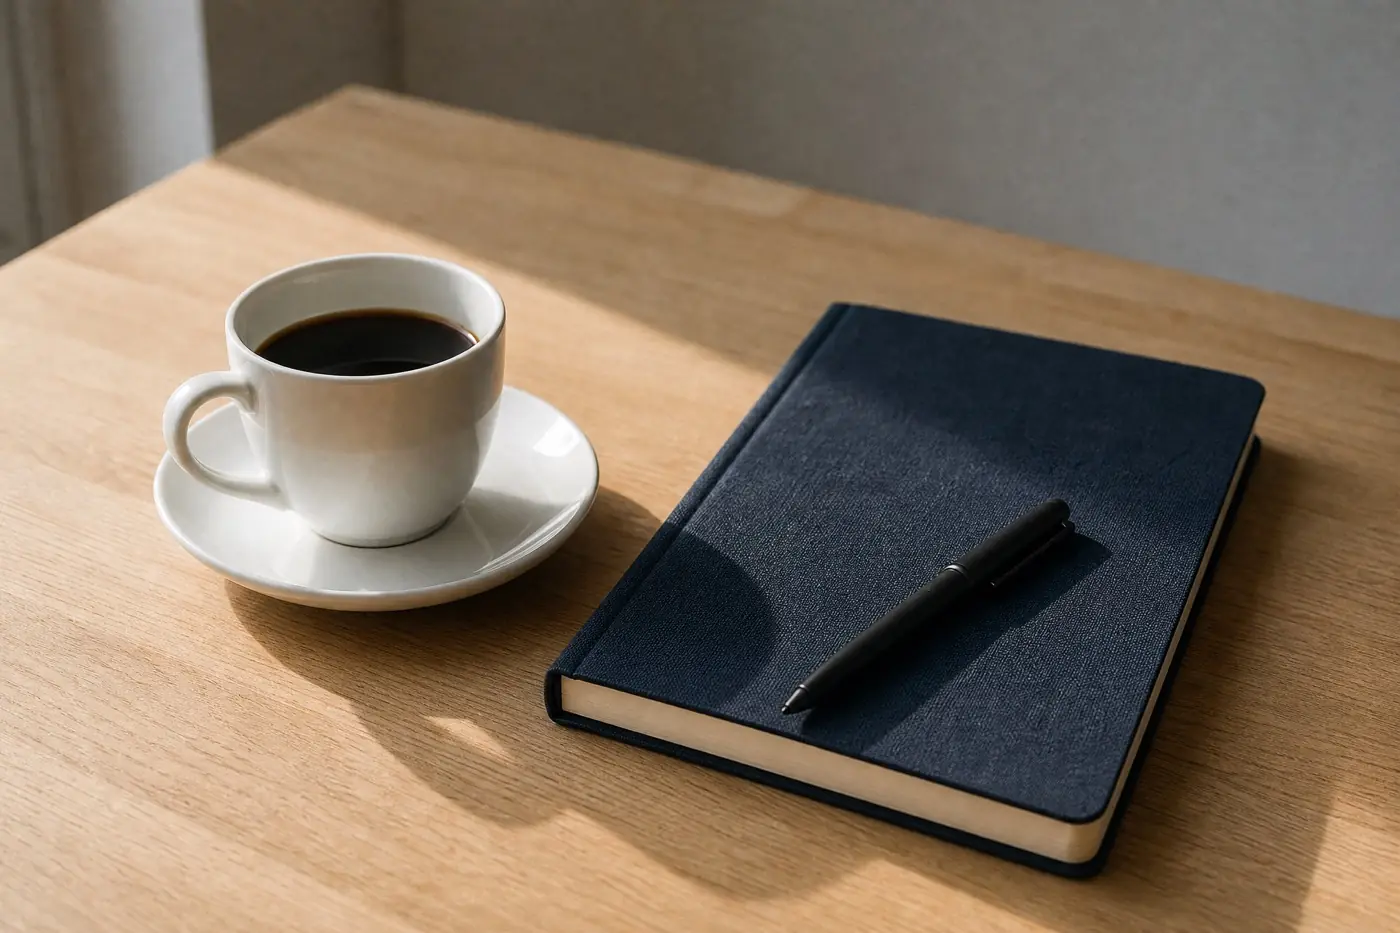
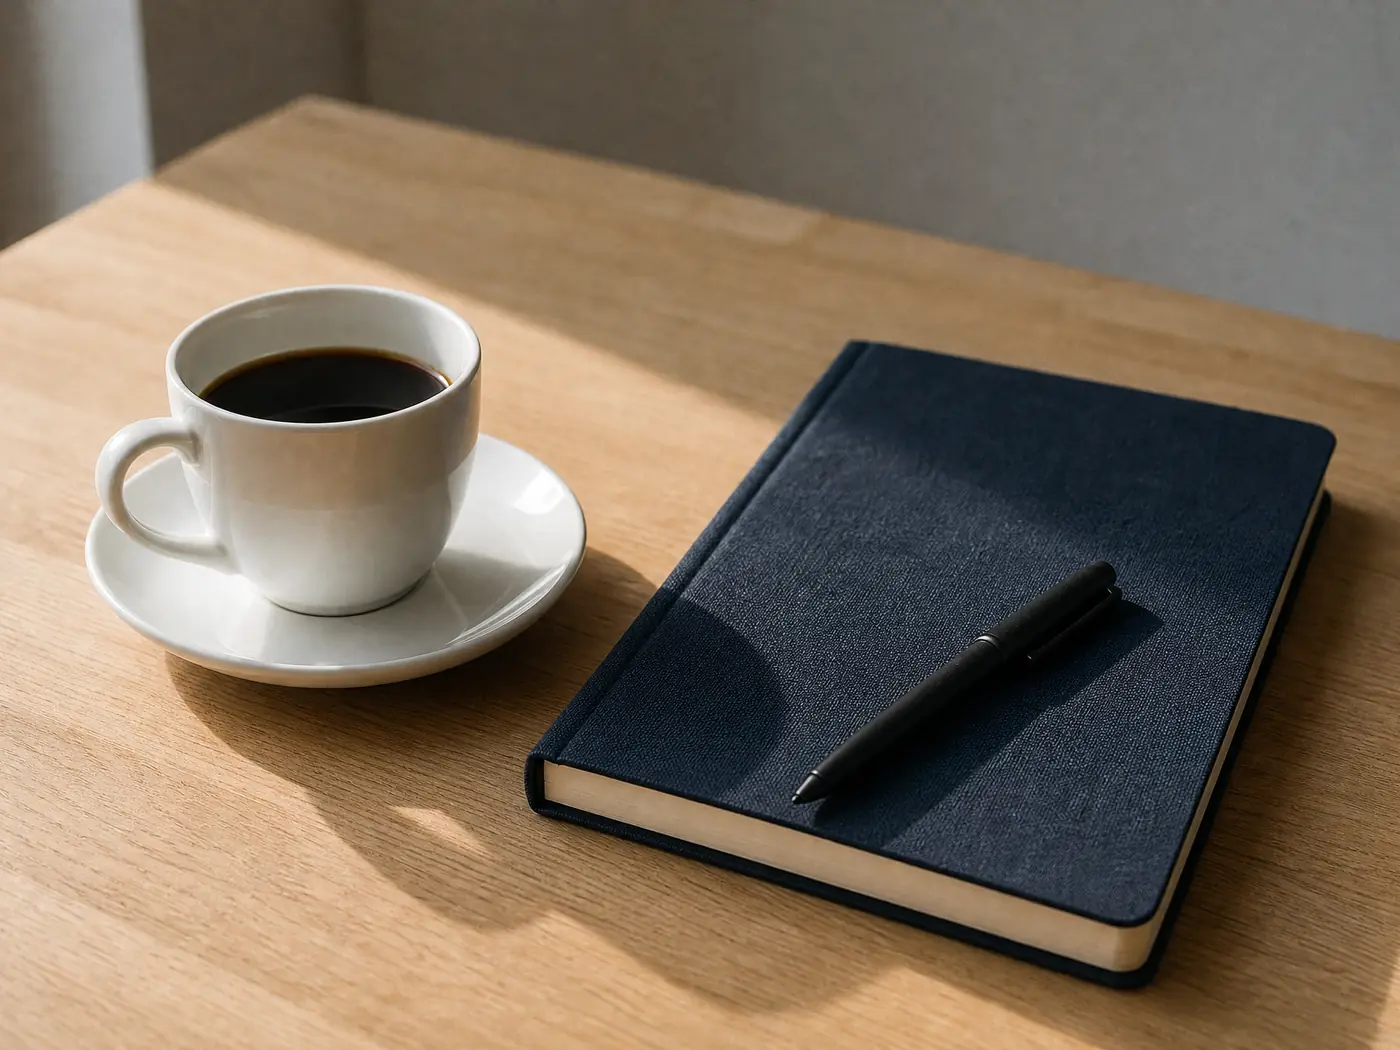
Advokatdemon: animerad meny, bildspel i toppen och avtäckta bilder

diff --git a/demo/advokat/index.html b/demo/advokat/index.html
@@ -1,5 +1,5 @@
 <!doctype html>
-<html lang="sv">
+<html lang="sv" class="js">
 <head>
 <meta charset="utf-8">
 <meta name="viewport" content="width=device-width,initial-scale=1">
@@ -20,7 +20,7 @@
 :root{
   --bas:#FFFFFF; --yta:#F2F3F5; --linje:#D9DCE1;
   --marin:#15233B; --marin-2:#22324D; --text:#15233B; --text-2:#4A5568; --pa-marin:#FFFFFF; --pa-marin-2:#C5CCD8;
-  --accent:#2556C4; --accent-hover:#1C45A3; --fokus:#E8A33D; --demo:#1F6B45;
+  --accent:#2556C4; --accent-hover:#1C45A3; --fokus:#E8A33D; --demo:#1F6B45; --ease:cubic-bezier(.22,.8,.24,1);
   --serif:'Source Serif 4',Georgia,serif; --sans:'Public Sans',system-ui,sans-serif;
   /* Storleksskala, dator: 14/16/18/22/32/48/64 */
   --s1:14px; --s2:16px; --s3:18px; --s4:22px; --s5:32px; --s6:48px; --s7:64px;
@@ -50,16 +50,46 @@ p{margin:0 0 1em;text-wrap:pretty}
 .demo a:hover{color:#fff;text-decoration-thickness:2px}
 
 /* Meny */
-.meny{position:sticky;top:0;z-index:50;background:var(--bas);border-bottom:1px solid var(--linje)}
+.meny{position:sticky;top:0;z-index:50;background:var(--bas);border-bottom:1px solid var(--linje);transition:box-shadow .3s var(--ease)}
+.meny.skuggad{box-shadow:0 10px 30px -18px rgba(21,35,59,.45)}
 .meny .sida{display:flex;align-items:center;justify-content:space-between;gap:24px;height:76px}
 .namn{display:flex;align-items:center;gap:12px;color:var(--marin);font:600 var(--s4)/1.2 var(--serif);white-space:nowrap}
 .namn:hover{color:var(--marin);text-decoration:none}
 .namn svg{flex:none}
-.lankar{display:flex;align-items:center;gap:32px;list-style:none;margin:0;padding:0}
-.lankar a:not(.knapp){color:var(--text);font-size:var(--s2);font-weight:500}
-.lankar a:not(.knapp):hover{color:var(--marin-2)}
-@media (max-width:960px){.lankar li:not(:last-child){display:none}}
-@media (max-width:480px){.meny .sida{height:64px}.namn{font-size:18px}.namn svg{width:28px;height:28px}}
+.namn rect{transition:fill .3s}
+.namn:hover rect{fill:var(--accent)}
+.hoger{display:flex;align-items:center;gap:32px}
+.lankar{position:relative;display:flex;align-items:center;gap:32px;list-style:none;margin:0;padding:0}
+/* Understrykningen ritas fram från vänster vid hover, 2 px tjock och 3 px under texten */
+.lankar a{position:relative;display:block;color:var(--text);font-size:var(--s2);font-weight:500;line-height:1.2}
+.lankar a::after{content:"";position:absolute;left:0;right:0;top:calc(100% + 3px);height:2px;background:currentColor;transform:scaleX(0);transform-origin:right;transition:transform .35s var(--ease)}
+.lankar a:hover{color:var(--marin-2);text-decoration:none}
+.lankar a:hover::after{transform:scaleX(1);transform-origin:left}
+.lankar a.aktiv{color:var(--marin)}
+/* Markören glider till avsnittet man läser */
+.markor{position:absolute;left:0;top:0;height:2px;width:0;background:var(--accent);opacity:0;pointer-events:none;transition:transform .5s var(--ease),width .5s var(--ease),opacity .3s}
+.meny-knapp{display:none;align-items:center;justify-content:center;width:44px;height:44px;padding:0;border:1px solid var(--linje);border-radius:4px;background:var(--bas);color:var(--marin);cursor:pointer;box-shadow:0 0 0 0 var(--linje);transition:box-shadow .2s,border-color .2s}
+.meny-knapp:hover{border-color:var(--marin);box-shadow:0 0 0 4px var(--yta)}
+.meny-knapp svg{width:20px;height:20px}
+.meny-knapp path{transition:transform .35s var(--ease),opacity .2s;transform-origin:10px 10px}
+.meny-knapp[aria-expanded=true] .l1{transform:translateY(5px) rotate(45deg)}
+.meny-knapp[aria-expanded=true] .l2{opacity:0}
+.meny-knapp[aria-expanded=true] .l3{transform:translateY(-5px) rotate(-45deg)}
+/* Mobilmenyn: rullas ner som en gardin, länkarna kommer in en i taget */
+.mobilmeny{position:absolute;left:0;right:0;top:100%;background:var(--marin);padding:16px 0 32px;clip-path:inset(0 0 100% 0);visibility:hidden;transition:clip-path .5s var(--ease),visibility 0s .5s}
+.mobilmeny.oppen{clip-path:inset(0);visibility:visible;transition:clip-path .5s var(--ease),visibility 0s}
+.mobilmeny ul{list-style:none;width:var(--sida);margin:0 auto;padding:0}
+.mobilmeny li{border-bottom:1px solid var(--marin-2);opacity:0;transform:translateY(-8px);transition:opacity .3s,transform .4s var(--ease)}
+.mobilmeny.oppen li{opacity:1;transform:none}
+.mobilmeny.oppen li:nth-child(2){transition-delay:.06s}
+.mobilmeny.oppen li:nth-child(3){transition-delay:.12s}
+.mobilmeny.oppen li:nth-child(4){transition-delay:.18s}
+.mobilmeny a{display:block;padding:16px 0;color:#fff;font:600 var(--s5)/1.2 var(--serif)}
+.mobilmeny a:hover{color:#fff;text-decoration:underline;text-decoration-thickness:2px;text-underline-offset:3px}
+.mobilmeny .liten-lank{font:600 var(--s3)/1.2 var(--sans);color:var(--pa-marin-2)}
+@media (max-width:960px){.hoger nav{display:none}.meny-knapp{display:inline-flex}.hoger{gap:12px}}
+@media (min-width:961px){.mobilmeny{display:none}}
+@media (max-width:480px){.meny .sida{height:64px}.namn{font-size:18px}.namn svg{width:28px;height:28px}.meny-knapp{width:40px;height:40px}.meny .knapp .lang{display:none}.namn{gap:10px;font-size:17px}.hoger{gap:8px}}
 
 /* Knappar: växer 4 px åt alla håll vid hover, texten står still */
 .knapp{display:inline-flex;align-items:center;justify-content:center;min-height:52px;padding:0 28px;border:0;border-radius:4px;background:var(--accent);color:#fff;font:600 var(--s3)/1.2 var(--sans);text-align:center;cursor:pointer;box-shadow:0 0 0 0 var(--accent-hover);transition:background .2s,box-shadow .2s}
@@ -75,8 +105,15 @@ p{margin:0 0 1em;text-wrap:pretty}
 .ingress{font-size:var(--s4);line-height:1.5;color:var(--text-2);max-width:34ch;margin-bottom:32px}
 .atgard{display:flex;flex-wrap:wrap;align-items:center;gap:16px 32px}
 .atgard .tel{font-weight:600}
-.topp figure{margin:0;border-radius:4px;overflow:hidden;background:var(--yta);aspect-ratio:3/2}
-.topp figure img{width:100%;height:100%;object-fit:cover}
+/* Bildspel i toppen: bilderna tonas mjukt över i varandra och zoomar sakta */
+.bildspel{position:relative;margin:0;border-radius:4px;overflow:hidden;background:var(--yta);aspect-ratio:4/3}
+.bildspel img{position:absolute;inset:0;width:100%;height:100%;object-fit:cover;opacity:0;transform:scale(1.06);transition:opacity 1.6s var(--ease),transform 7s linear}
+.bildspel img.vald{opacity:1;transform:scale(1)}
+.paus{position:absolute;right:16px;bottom:16px;display:flex;align-items:center;justify-content:center;width:44px;height:44px;padding:0;border:0;border-radius:50%;background:rgba(255,255,255,.92);color:var(--marin);cursor:pointer;box-shadow:0 0 0 0 rgba(255,255,255,.92);transition:box-shadow .2s}
+.paus:hover{box-shadow:0 0 0 4px rgba(255,255,255,.92)}
+.paus svg{width:16px;height:16px}
+.paus .spela,.paus[aria-pressed=true] .pausa{display:none}
+.paus[aria-pressed=true] .spela{display:block}
 .lofte{list-style:none;padding:0;margin:16px 0 0;display:grid;grid-template-columns:repeat(3,1fr);gap:32px;grid-column:1/-1}
 .lofte li{border-top:2px solid var(--marin);padding-top:20px}
 .lofte b{display:block;font:600 var(--s4)/1.25 var(--serif);margin-bottom:8px}
@@ -98,19 +135,35 @@ section{scroll-margin-top:96px}
 .omraden figure{margin:0;border-radius:4px;overflow:hidden;aspect-ratio:4/3;position:sticky;top:112px}
 .omraden figure img{width:100%;height:100%;object-fit:cover}
 
+/* Bilderna längre ner avtäcks när de kommer in, och rör sig lite inne i ramen */
+.ram img{height:116%!important;transform:translateY(var(--y,-7%))}
+.js .avtack{clip-path:inset(0 0 100% 0);transition:clip-path 1.1s var(--ease)}
+.js .avtack.syns{clip-path:inset(0)}
+
 /* Så går det till: ett band i huvudfärgen */
 .marin{background:var(--marin);color:var(--pa-marin)}
 .marin .ingress{color:var(--pa-marin-2)}
-.steg{list-style:none;margin:0;padding:0;display:grid;grid-template-columns:repeat(3,1fr);gap:48px;counter-reset:steg}
-.steg li{counter-increment:steg;border-top:1px solid var(--marin-2);padding-top:24px}
-.steg li::before{content:counter(steg);display:flex;align-items:center;justify-content:center;width:44px;height:44px;border-radius:50%;border:2px solid var(--pa-marin-2);font:600 var(--s3)/1 var(--sans);margin-bottom:24px}
+/* En linje fylls i mellan stegen och siffrorna tänds i tur och ordning */
+.steg{position:relative;list-style:none;margin:0;padding:0;display:grid;grid-template-columns:repeat(3,1fr);gap:48px;counter-reset:steg}
+.steg::before,.steg::after{content:"";position:absolute;left:22px;right:0;top:21px;height:2px;background:var(--marin-2)}
+.steg::after{background:var(--pa-marin-2);transform:scaleX(0);transform-origin:left;transition:transform 1.4s var(--ease)}
+.steg.syns::after{transform:scaleX(1)}
+.steg li{position:relative;counter-increment:steg}
+.steg li::before{content:counter(steg);position:relative;display:flex;align-items:center;justify-content:center;width:44px;height:44px;border-radius:50%;border:2px solid var(--pa-marin-2);background:var(--marin);color:var(--pa-marin);font:600 var(--s3)/1 var(--sans);margin-bottom:24px;transition:background .4s,color .4s}
+.steg.syns li::before{background:var(--pa-marin);color:var(--marin)}
+.steg.syns li:nth-child(2)::before{transition-delay:.55s}
+.steg.syns li:nth-child(3)::before{transition-delay:1.1s}
 .steg h3{margin-bottom:8px}
 .steg p{margin:0;color:var(--pa-marin-2)}
 
 /* Vad det kostar */
 .kostnad{display:grid;grid-template-columns:1fr 1.2fr;gap:64px;align-items:start}
+.kostnad .lager{position:relative;padding-bottom:96px}
 .kostnad figure{margin:0;border-radius:4px;overflow:hidden;aspect-ratio:4/3}
 .kostnad figure img{width:100%;height:100%;object-fit:cover}
+.kort{position:absolute;right:-32px;bottom:0;width:min(340px,85%);background:var(--marin);color:var(--pa-marin-2);border-radius:4px;padding:34px 32px 28px;box-shadow:0 24px 48px -24px rgba(21,35,59,.6)}
+.kort b{display:block;color:#fff;font:600 var(--s4)/1.25 var(--serif);margin-bottom:8px}
+.kort p{margin:0;font-size:var(--s2)}
 .priser{width:100%;border-collapse:collapse;margin-bottom:32px}
 .priser th,.priser td{padding:16px 0;border-bottom:1px solid var(--linje);text-align:left;vertical-align:baseline;font-weight:400}
 .priser th{padding-right:16px}
@@ -150,12 +203,19 @@ footer a:hover{color:#fff;text-decoration-thickness:2px}
   .topp .sida,.omraden,.kostnad,.boka .sida{grid-template-columns:1fr;gap:40px}
   .topp{padding-top:40px}
   .lofte,.steg{grid-template-columns:1fr;gap:32px}
-
-  .omraden figure{position:static;aspect-ratio:4/3}
-
-  .dorr{display:none}
+  .omraden figure{position:static}
+  .steg::before,.steg::after{left:21px;right:auto;top:22px;bottom:22px;width:2px;height:auto}
+  .steg::after{transform:scaleY(0);transform-origin:top}
+  .steg.syns::after{transform:scaleY(1)}
+  .steg li{padding-left:72px;min-height:44px}
+  .steg li::before{position:absolute;left:0;top:0;margin:0}
+  .kostnad .lager{padding-bottom:64px}
+  .kort{right:16px;padding:26px 24px 20px}
 }
-@media (prefers-reduced-motion:reduce){*{transition:none!important;scroll-behavior:auto!important}}
+@media (prefers-reduced-motion:reduce){
+  *,*::before,*::after{transition:none!important;animation:none!important;scroll-behavior:auto!important}
+  .ram img{transform:none;height:100%!important}
+}
 </style>
 </head>
 <body>
@@ -168,15 +228,27 @@ footer a:hover{color:#fff;text-decoration-thickness:2px}
       <svg width="32" height="32" viewBox="0 0 32 32" aria-hidden="true"><rect width="32" height="32" rx="6" fill="#15233B"/><path d="M8 21h16M8 16h16M8 11h16" stroke="#fff" stroke-width="2.4" stroke-linecap="round"/></svg>
       Advokatbyrån Strand
     </a>
-    <nav aria-label="Huvudmeny">
-      <ul class="lankar">
-        <li><a href="#omraden">Det vi hjälper till med</a></li>
-        <li><a href="#sa-gar-det-till">Så går det till</a></li>
-        <li><a href="#kostnad">Vad det kostar</a></li>
-        <li><a class="knapp" href="#boka">Boka samtal</a></li>
-      </ul>
-    </nav>
+    <div class="hoger">
+      <nav aria-label="Huvudmeny">
+        <ul class="lankar">
+          <li><a href="#omraden">Det vi hjälper till med</a></li>
+          <li><a href="#sa-gar-det-till">Så går det till</a></li>
+          <li><a href="#kostnad">Vad det kostar</a></li>
+          <li class="markor" aria-hidden="true"></li>
+        </ul>
+      </nav>
+      <a class="knapp" href="#boka">Boka<span class="lang">&nbsp;samtal</span></a>
+      <button class="meny-knapp" type="button" aria-expanded="false" aria-controls="mobilmeny" aria-label="Meny"><svg viewBox="0 0 20 20" aria-hidden="true"><path class="l1" d="M3 5h14" stroke="currentColor" stroke-width="2" stroke-linecap="round"/><path class="l2" d="M3 10h14" stroke="currentColor" stroke-width="2" stroke-linecap="round"/><path class="l3" d="M3 15h14" stroke="currentColor" stroke-width="2" stroke-linecap="round"/></svg></button>
+    </div>
   </div>
+  <nav class="mobilmeny" id="mobilmeny" aria-label="Meny">
+    <ul>
+      <li><a href="#omraden">Det vi hjälper till med</a></li>
+      <li><a href="#sa-gar-det-till">Så går det till</a></li>
+      <li><a href="#kostnad">Vad det kostar</a></li>
+      <li><a class="liten-lank" href="tel:+46701740642">Ring 070-174 06 42</a></li>
+    </ul>
+  </nav>
 </header>
 
 <main id="main" tabindex="-1">
@@ -190,7 +262,11 @@ footer a:hover{color:#fff;text-decoration-thickness:2px}
           <a class="tel" href="tel:+46701740642">Ring 070-174 06 42</a>
         </div>
       </div>
-      <figure><img src="assets/bord-1400.webp" srcset="assets/bord-800.webp 800w, assets/bord-1400.webp 1400w" sizes="(max-width:900px) 100vw, 560px" width="1400" height="933" alt="En kopp kaffe och ett anteckningsblock på ett ljust träbord i dagsljus." fetchpriority="high"></figure>
+      <figure class="bildspel" aria-label="Bilder från byrån">
+        <img class="vald" src="assets/bord-1400.webp" srcset="assets/bord-800.webp 800w, assets/bord-1400.webp 1400w" sizes="(max-width:900px) 100vw, 560px" width="1400" height="1050" alt="En kopp kaffe och ett anteckningsblock på ett ljust träbord i dagsljus." fetchpriority="high">
+        <img src="assets/dorr-1400.webp" srcset="assets/dorr-800.webp 800w, assets/dorr-1400.webp 1400w" sizes="(max-width:900px) 100vw, 560px" width="1400" height="1050" alt="Byråns mörkblå ytterdörr med ett handtag i mässing." loading="lazy">
+        <button class="paus" type="button" aria-pressed="false" aria-label="Pausa bildspelet"><svg class="pausa" viewBox="0 0 16 16" aria-hidden="true"><path d="M5 3v10M11 3v10" stroke="currentColor" stroke-width="2.4" stroke-linecap="round"/></svg><svg class="spela" viewBox="0 0 16 16" aria-hidden="true"><path d="M5 3l8 5-8 5z" fill="currentColor"/></svg></button>
+      </figure>
       <ul class="lofte">
         <li><b>Samma advokat hela vägen</b><span>Den du träffar första gången har hand om ärendet tills det är klart.</span></li>
         <li><b>Fast pris på avtal</b><span>Samboavtal, äktenskapsförord och testamente kostar det vi sagt från början.</span></li>
@@ -212,7 +288,7 @@ footer a:hover{color:#fff;text-decoration-thickness:2px}
           <li><h3>Framtidsfullmakt</h3><p>Bestäm i förväg vem som ska sköta din ekonomi om du inte längre kan göra det själv.</p></li>
         </ul>
       </div>
-      <figure><img src="assets/rum-1000.webp" width="1000" height="750" alt="Två stolar vid ett litet runt bord med en karaff vatten, i ett lugnt mötesrum." loading="lazy"></figure>
+      <figure class="ram avtack"><img src="assets/rum-1000.webp" width="1000" height="750" alt="Två stolar vid ett litet runt bord med en karaff vatten, i ett lugnt mötesrum." loading="lazy"></figure>
     </div>
   </section>
 
@@ -230,7 +306,10 @@ footer a:hover{color:#fff;text-decoration-thickness:2px}
 
   <section class="sek" id="kostnad" aria-labelledby="kostnad-rubrik">
     <div class="sida kostnad">
-      <figure><img src="assets/papper-1000.webp" width="1000" height="750" alt="En bunt papper med ett gem och en penna på ett skrivbord." loading="lazy"></figure>
+      <div class="lager">
+        <figure class="ram avtack"><img src="assets/papper-1000.webp" width="1000" height="750" alt="En bunt papper med ett gem och en penna på ett skrivbord." loading="lazy"></figure>
+        <div class="kort" data-fart="-0.06"><b>Rättsskydd i hemförsäkringen</b><p>Det kan betala det mesta av en tvist. Vi kontrollerar ditt skydd redan i första samtalet.</p></div>
+      </div>
       <div>
         <h2 id="kostnad-rubrik">Vad det kostar</h2>
         <p class="ingress">Alla priser är inklusive moms.</p>
@@ -243,7 +322,6 @@ footer a:hover{color:#fff;text-decoration-thickness:2px}
             <tr><th scope="row">Bodelning, vårdnad och arvstvist<small>Per timme</small></th><td>2 400 kr</td></tr>
           </tbody>
         </table>
-        <p class="not">Har du en hemförsäkring kan rättsskyddet betala det mesta av en tvist. Vi kontrollerar det åt dig redan i första samtalet.</p>
       </div>
     </div>
   </section>
@@ -259,7 +337,6 @@ footer a:hover{color:#fff;text-decoration-thickness:2px}
           <li><span>Kontoret</span><span>Storgatan, Umeå</span></li>
           <li><span>Vardagar</span><span>08.30–17.00</span></li>
         </ul>
-        <figure class="dorr"><img src="assets/dorr-800.webp" width="800" height="1000" alt="En mörkblå ytterdörr med ett handtag i mässing." loading="lazy"></figure>
       </div>
       <form id="formular">
         <h3>Vi ringer upp dig</h3>
@@ -296,10 +373,62 @@ footer a:hover{color:#fff;text-decoration-thickness:2px}
 </footer>
 
 <script>
-document.getElementById('formular').addEventListener('submit', e => {
-  e.preventDefault();
-  document.getElementById('klar').classList.add('syns');
-});
+(() => {
+  const lugn = matchMedia('(prefers-reduced-motion: reduce)').matches;
+  document.getElementById('formular').addEventListener('submit', e => { e.preventDefault(); document.getElementById('klar').classList.add('syns'); });
+
+  // Mobilmenyn
+  const meny = document.querySelector('.meny'), knapp = document.querySelector('.meny-knapp'), mobil = document.getElementById('mobilmeny');
+  const stang = () => { mobil.classList.remove('oppen'); knapp.setAttribute('aria-expanded', 'false'); };
+  knapp.addEventListener('click', () => { const o = !mobil.classList.contains('oppen'); mobil.classList.toggle('oppen', o); knapp.setAttribute('aria-expanded', o); });
+  mobil.addEventListener('click', e => { if (e.target.closest('a')) stang(); });
+  addEventListener('keydown', e => { if (e.key === 'Escape' && mobil.classList.contains('oppen')){ stang(); knapp.focus(); } });
+
+  // Markören i menyn följer avsnittet man läser
+  const lankar = [...document.querySelectorAll('.lankar a')], markor = document.querySelector('.markor');
+  const avsnitt = lankar.map(a => document.querySelector(a.getAttribute('href')));
+  let aktiv = null;
+  function markera(a){
+    if (a === aktiv) return; aktiv = a;
+    lankar.forEach(l => l.classList.toggle('aktiv', l === a));
+    if (!a){ markor.style.opacity = 0; return; }
+    markor.style.top = (a.offsetTop + a.offsetHeight + 3) + 'px';
+    markor.style.width = a.offsetWidth + 'px';
+    markor.style.transform = 'translateX(' + a.offsetLeft + 'px)';
+    markor.style.opacity = 1;
+  }
+
+  // Lager som rör sig i olika takt, bilder som rör sig i ramen
+  const fart = [...document.querySelectorAll('[data-fart]')], ramar = [...document.querySelectorAll('.ram img')];
+  let rad = null;
+  function rita(){
+    rad = null; const h = innerHeight;
+    meny.classList.toggle('skuggad', scrollY > 8);
+    // Avtäckning när bilderna och stegen kommer in (kontrolleras vid varje skroll, så att inget missas vid snabb skroll)
+    document.querySelectorAll('.avtack:not(.syns), .steg:not(.syns)').forEach(el => { if (el.getBoundingClientRect().top < h * .85) el.classList.add('syns'); });
+    let a = null; avsnitt.forEach((s, i) => { const r = s.getBoundingClientRect(); if (r.top < h * .4 && r.bottom > h * .4) a = lankar[i]; });
+    markera(a);
+    if (lugn) return;
+    fart.forEach(el => { const r = el.parentElement.getBoundingClientRect(); const d = r.top + r.height / 2 - h / 2; el.style.transform = 'translate3d(0,' + Math.max(-48, Math.min(48, d * +el.dataset.fart)).toFixed(1) + 'px,0)'; });
+    ramar.forEach(img => { const r = img.parentElement.getBoundingClientRect(); if (r.bottom < 0 || r.top > h) return; const p = (r.top + r.height) / (h + r.height); img.style.setProperty('--y', (-14 * (1 - p)).toFixed(2) + '%'); });
+  }
+  addEventListener('scroll', () => { if (rad === null) rad = requestAnimationFrame(rita); }, {passive:true});
+  addEventListener('resize', () => { aktiv = undefined; rita(); });
+  rita();
+  // Bildspelet i toppen: byter bild var sjätte sekund, går att pausa, står still vid reducera rörelse
+  const bilder = [...document.querySelectorAll('.bildspel img')], paus = document.querySelector('.paus');
+  let nr = 0, timer = null;
+  const nasta = () => { bilder[nr].classList.remove('vald'); nr = (nr + 1) % bilder.length; bilder[nr].classList.add('vald'); };
+  const starta = () => { timer = setInterval(nasta, 6000); paus.setAttribute('aria-pressed', 'false'); };
+  const stoppa = () => { clearInterval(timer); timer = null; paus.setAttribute('aria-pressed', 'true'); };
+  paus.addEventListener('click', () => timer ? stoppa() : starta());
+  if (lugn) stoppa(); else starta();
+
+  // Reserv: avtäck också via IntersectionObserver, om skrollhändelserna inte hinner köras
+  const io = new IntersectionObserver(es => es.forEach(e => { if (e.isIntersecting){ e.target.classList.add('syns'); io.unobserve(e.target); } }));
+  document.querySelectorAll('.avtack, .steg').forEach(el => io.observe(el));
+
+})();
 </script>
 </body>
 </html>
